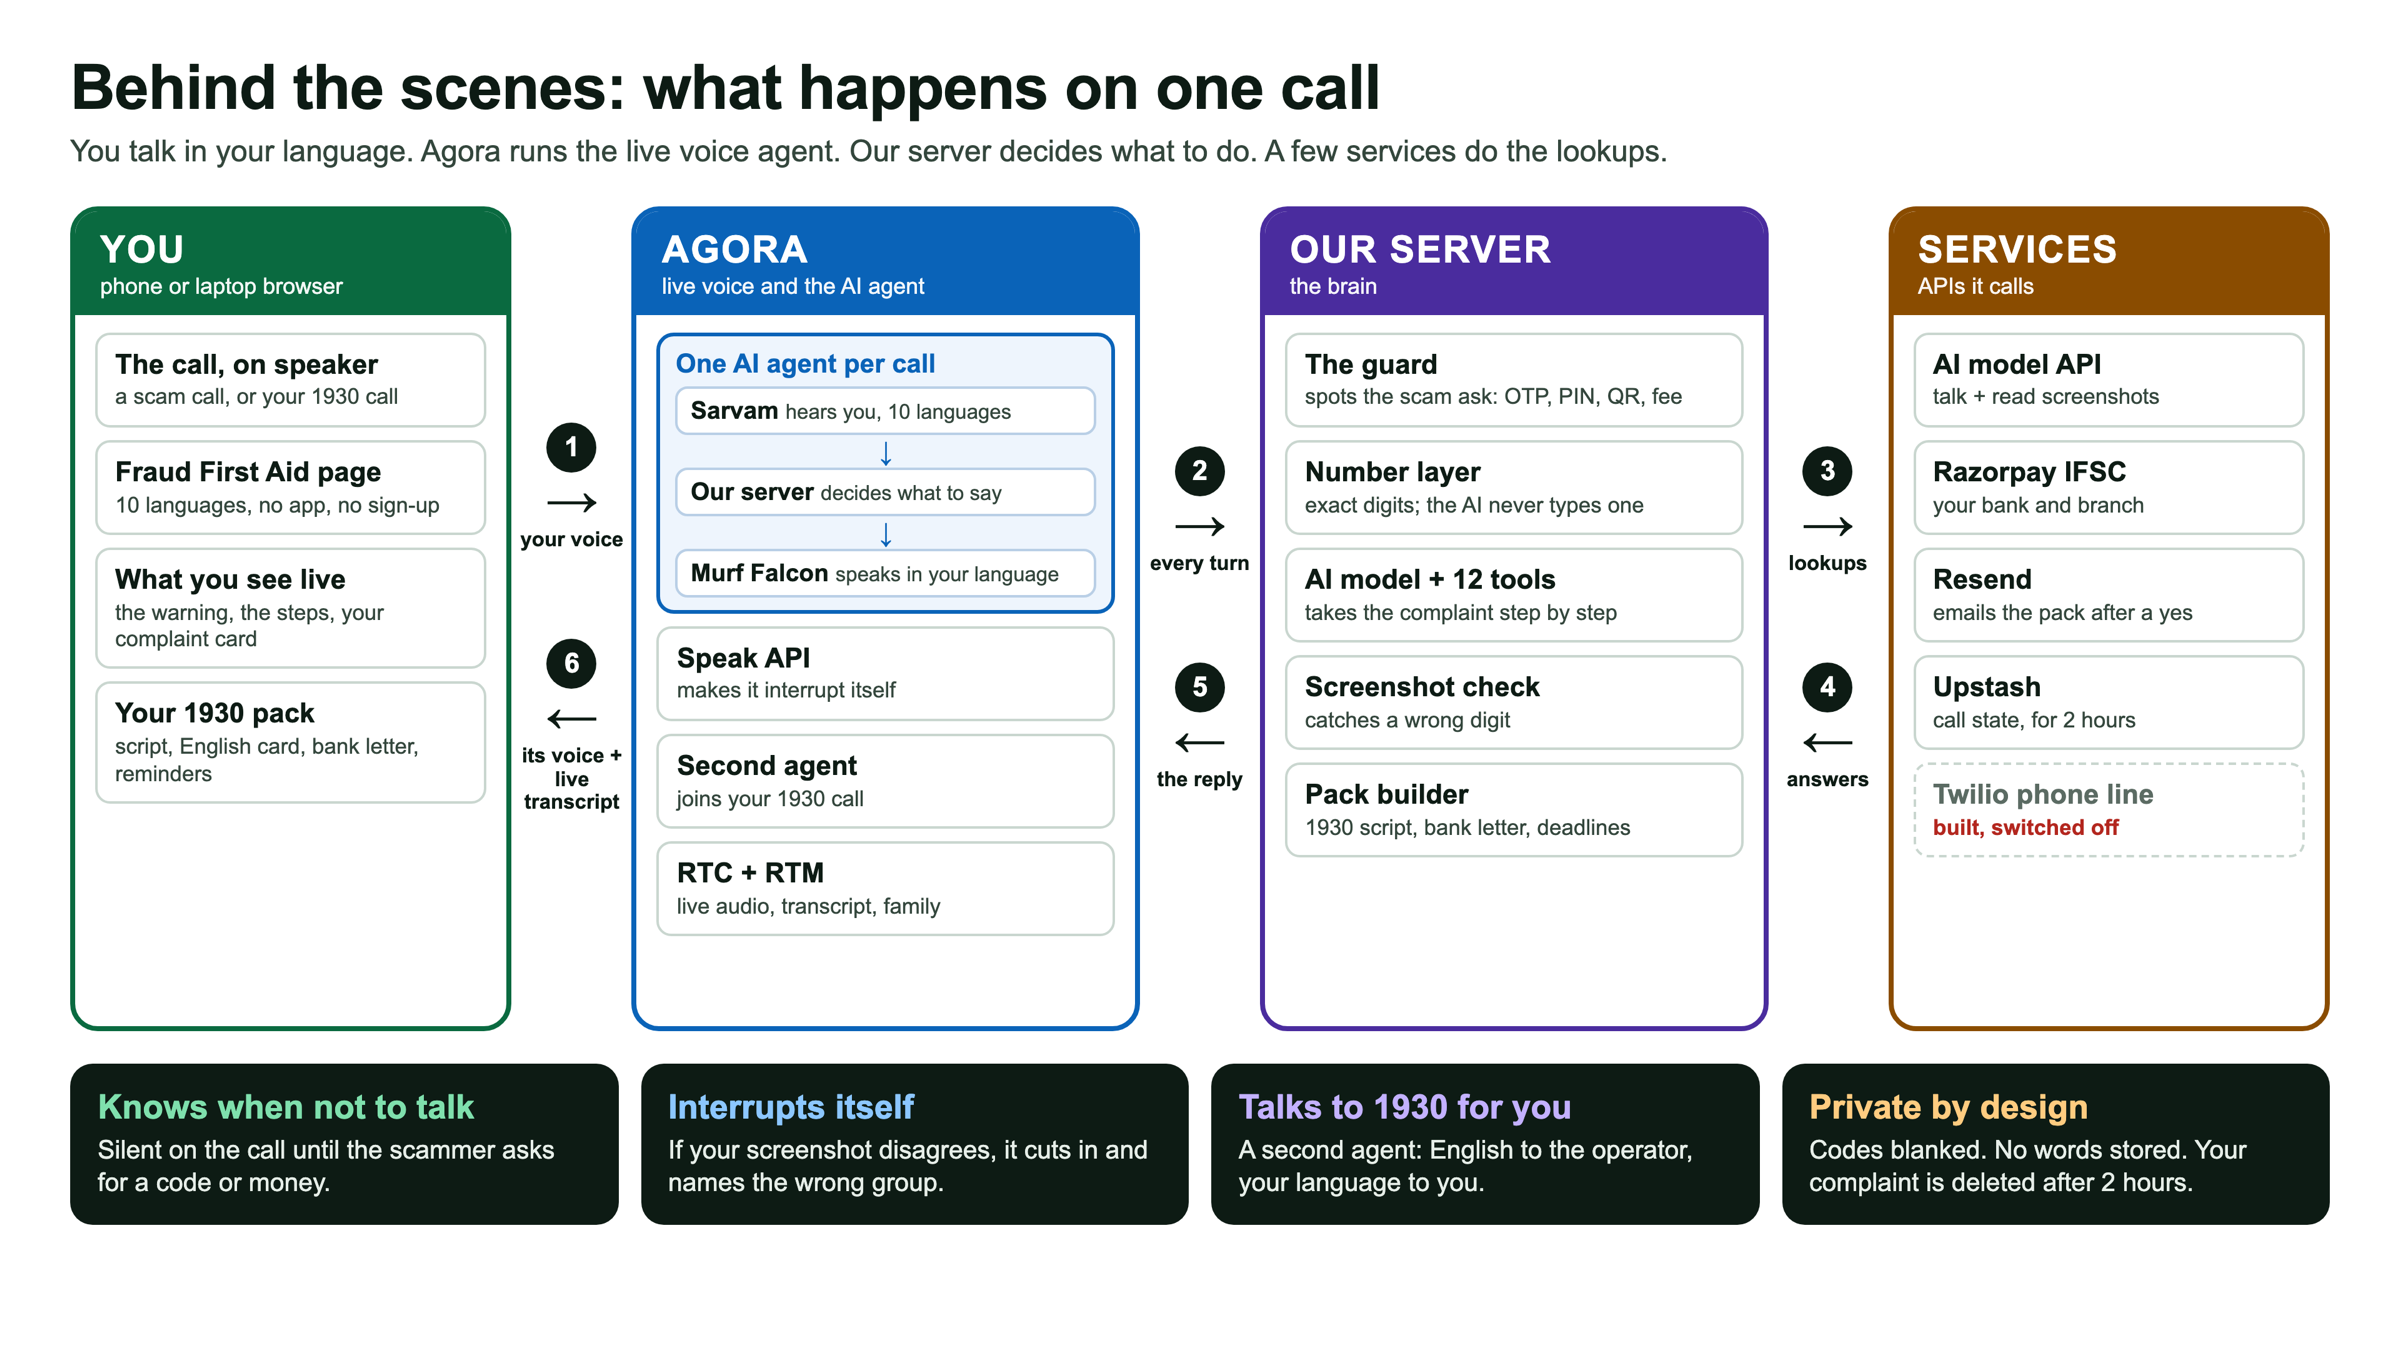
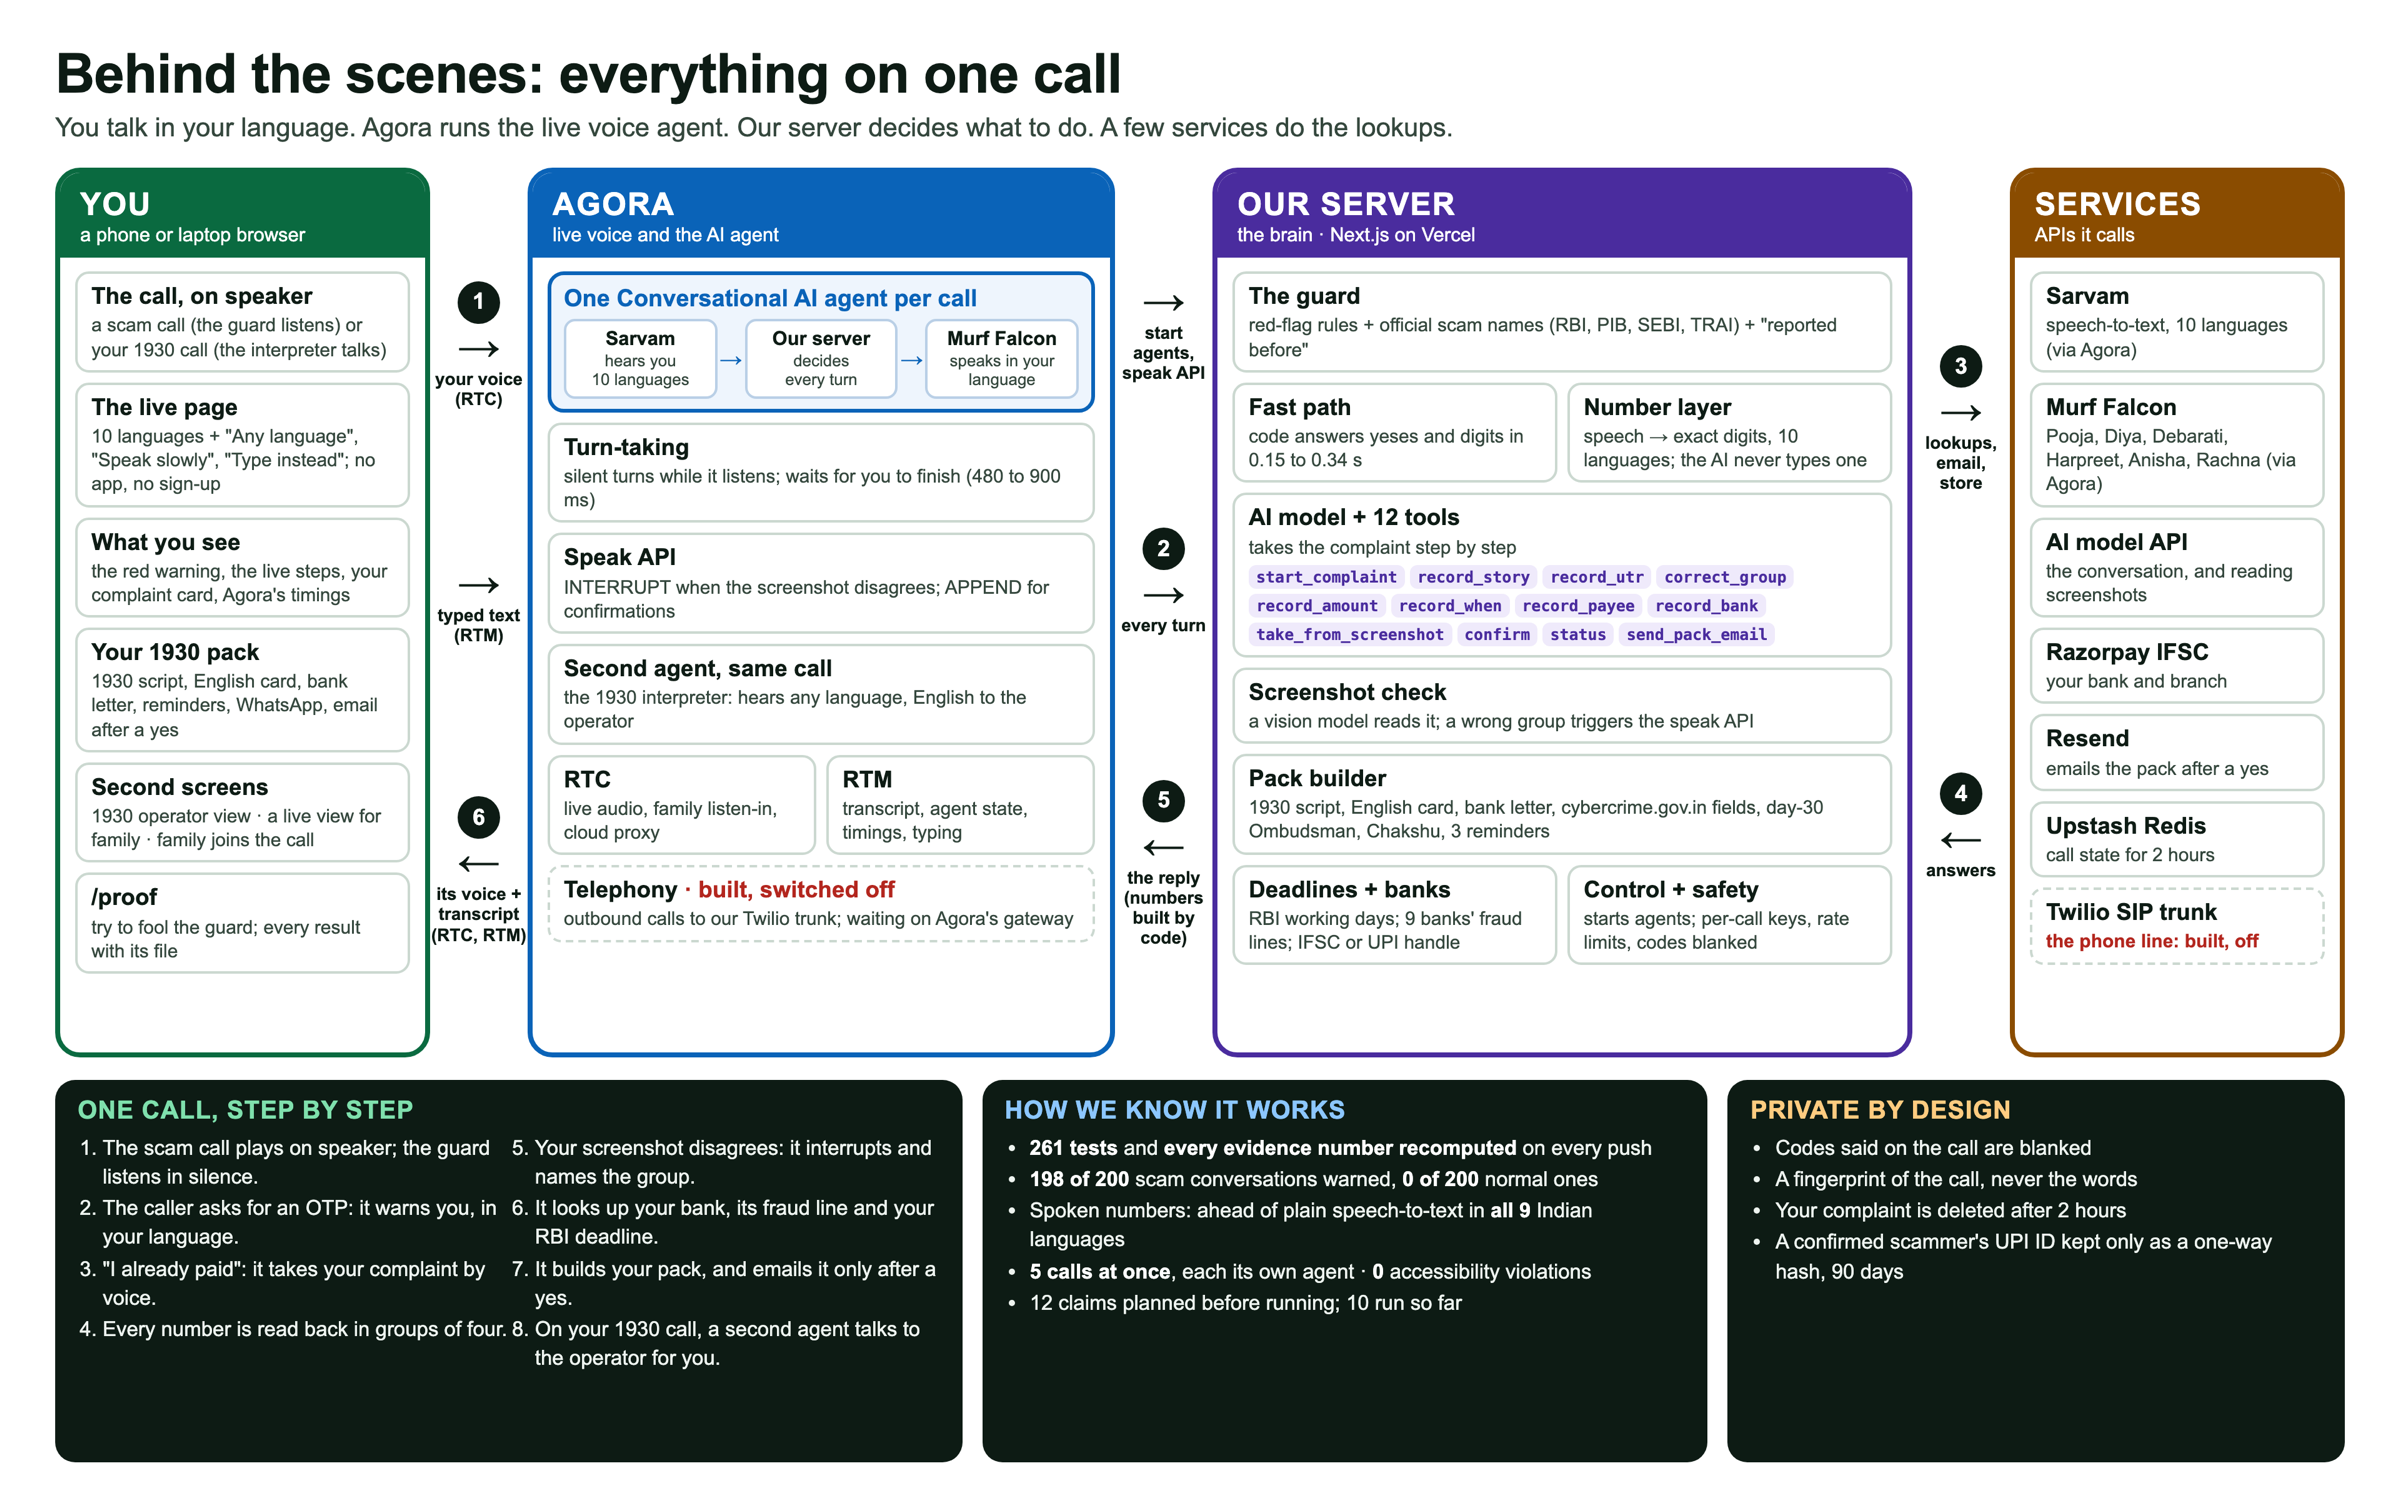
Architecture diagram, fuller and still plain: every part on one call (you, Agora's agent with Sarvam and Murf Falcon, turn-taking, speak API, second agent, RTC, RTM, telephony off; our server's guard, fast path, number layer, model with 12 tools, screenshot check, pack builder, deadlines and banks, 

diff --git a/web/app/proof/page.tsx b/web/app/proof/page.tsx
@@ -72,7 +72,7 @@ export default function Proof() {
             services it calls.
           </p>
           <a href="/architecture.png" target="_blank" rel="noopener noreferrer">
-            <Image src="/architecture.png" width={2400} height={1350} alt="Behind the scenes on one call: you, Agora's agent with Sarvam and Murf Falcon, our server's guard, number layer, AI model with 12 tools, screenshot check and pack builder, and the services it calls" style={{ width: '100%', height: 'auto', borderRadius: 12, border: '1px solid var(--line, #d6e3dc)' }} />
+            <Image src="/architecture.png" width={2400} height={1500} alt="Behind the scenes on one call: you, Agora's agent with Sarvam and Murf Falcon, our server's guard, number layer, AI model with 12 tools, screenshot check and pack builder, and the services it calls" style={{ width: '100%', height: 'auto', borderRadius: 12, border: '1px solid var(--line, #d6e3dc)' }} />
           </a>
         </section>
         <section className="pf-more">

diff --git a/web/components/QuickstartPreCallCard.tsx b/web/components/QuickstartPreCallCard.tsx
@@ -124,7 +124,7 @@ function BehindTheScenes() {
         <Image
           src="/architecture.png"
           width={2400}
-          height={1350}
+          height={1500}
           sizes="(max-width: 1180px) 100vw, 1120px"
           alt="Behind the scenes on one call: you talk in your browser; Agora runs one AI agent per call (Sarvam hears, our server decides, Murf Falcon speaks), plus the speak API, a second agent for the 1930 call, and RTC and RTM; our server holds the scam guard, the number layer, an AI model with 12 tools, the screenshot check and the pack builder; it calls an AI model API, Razorpay IFSC, Resend and Upstash; the Twilio phone line is built but switched off"
         />

diff --git a/README.md b/README.md
@@ -46,9 +46,7 @@ To see every screen without talking: [`?state=complaint-done`](https://fraudfirs
 
 ### The whole system
 
-![Behind the scenes on one call: you talk in your browser; Agora runs one AI agent per call (Sarvam hears, our server decides, Murf Falcon speaks), plus the speak API, a second agent for the 1930 call, and RTC and RTM; our server holds the guard, the number layer, an AI model with 12 tools, the screenshot check and the pack builder; services: an AI model API, Razorpay IFSC, Resend, Upstash, and a Twilio phone line that's built but off](docs/architecture.png)
-
-Every component in more detail: [docs/architecture-detailed.png](docs/architecture-detailed.png).
+![Behind the scenes, everything on one call: you (the call on speaker, the live page in ten languages, what you see, your 1930 pack, second screens, /proof); Agora (one Conversational AI agent per call where Sarvam hears, our server decides and Murf Falcon speaks; turn-taking; the speak API; a second agent for the 1930 call; RTC; RTM; telephony built but off); our server (the guard, the fast path, the number layer, an AI model with 12 tools, the screenshot check, the pack builder, deadlines and banks, control and safety); services (Sarvam, Murf Falcon, an AI model API, Razorpay IFSC, Resend, Upstash Redis, a Twilio SIP trunk that's off); plus one call step by step, how we know it works, and privacy](docs/architecture.png)
 
 ### How a call flows
 
